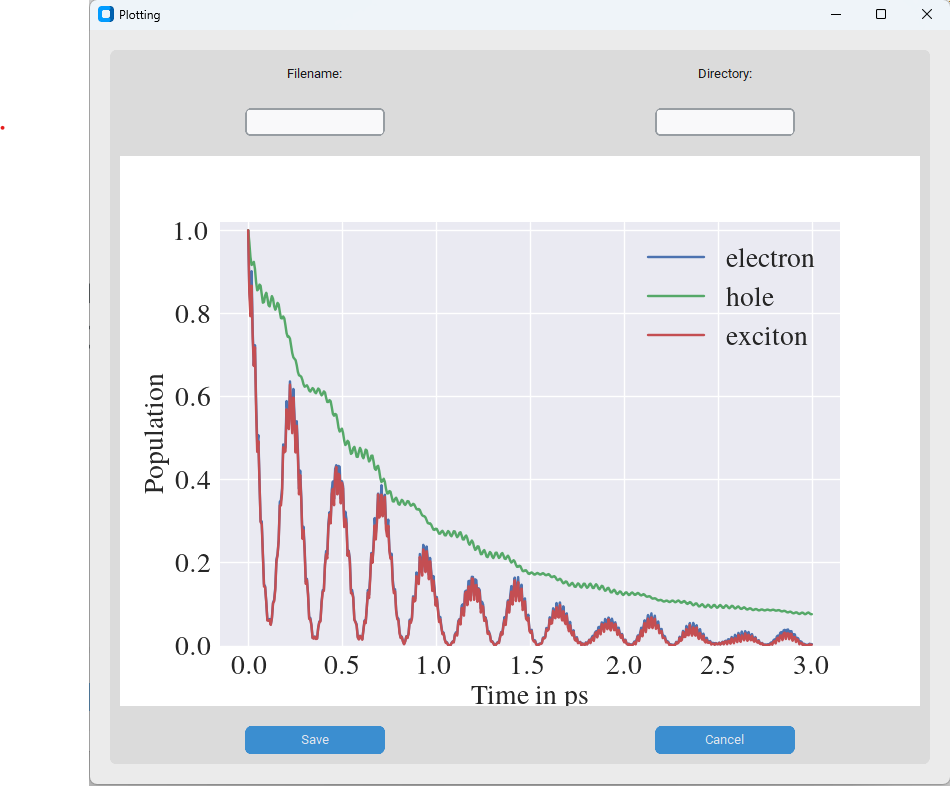
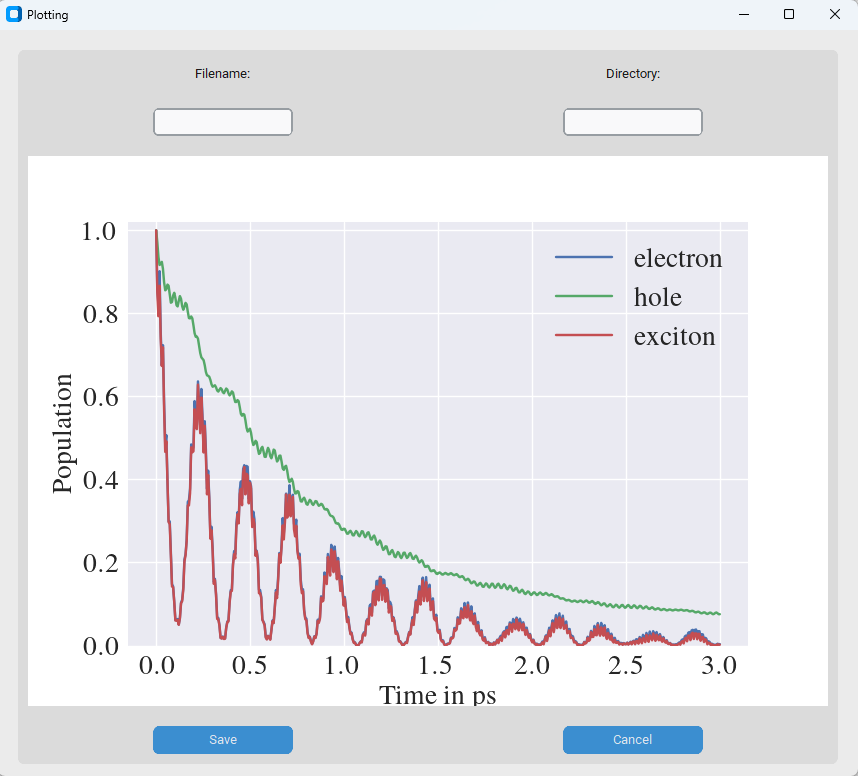
improved readme

diff --git a/README.md b/README.md
@@ -142,12 +142,12 @@ The GUI allows you to easily explore and utilize the capabilities of the `qDNA` 
 
 * **Plot Generation:** Create plots effortlessly by submitting your parameters through the GUI.
 
-![](docs/figures/user_interface_figures/plot_1_light.png)
+![](docs/figures/user_interface_figures/plot_1_light.png){width=50%}
 > _Plot obtained after pressing the submit button on the menu (see image above)._
 
 * **Calculation Display:** Perform calculations, such as exciton lifetime and average charge separation, and view the results directly within the interface.
 
-![](docs/figures/user_interface_figures/menu_2_light.png){width=70%}
+![](docs/figures/user_interface_figures/menu_2_light.png)
 > _Screenshot of the menu of the user interface with calculations of the exciton lifetime, average charge separation and dipole moment displayed in the frame on the bottom right._
 
 The GUI streamlines the process of working with `qDNA`, making it accessible even to those who may not be familiar with coding. Whether you're generating plots or calculating complex dynamics, the GUI provides a convenient and efficient way to achieve your goals.
